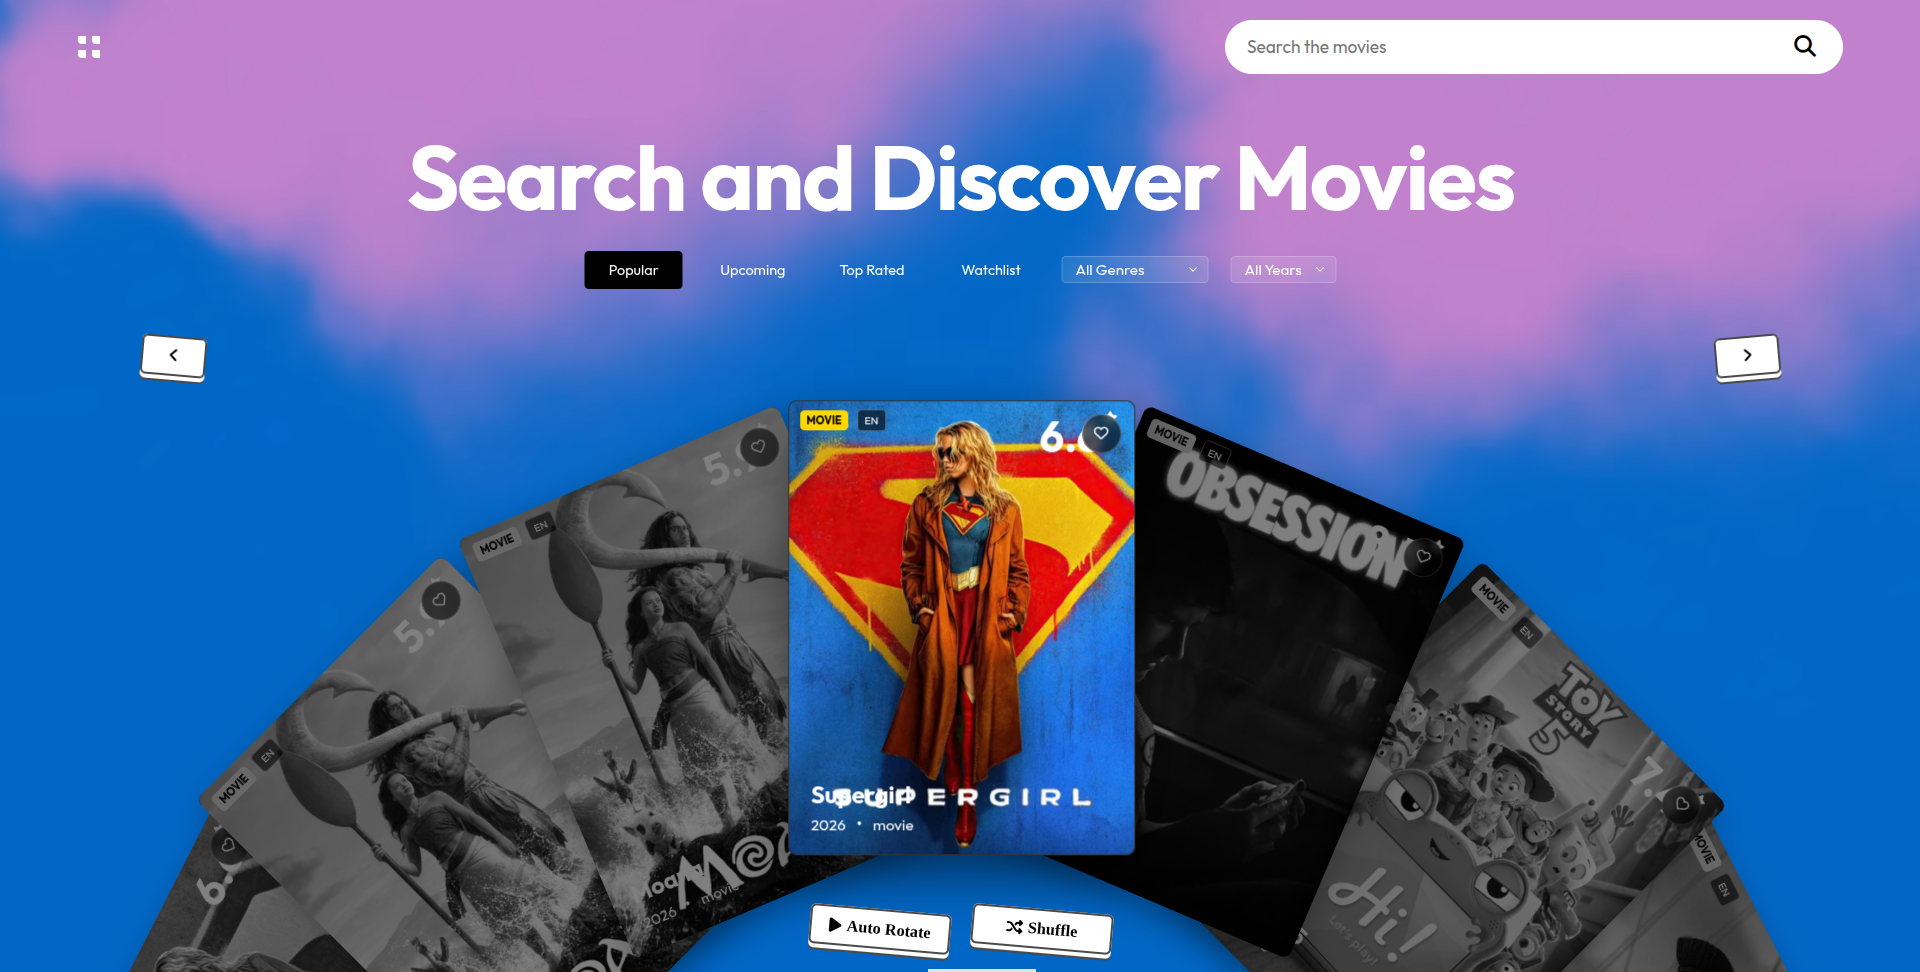
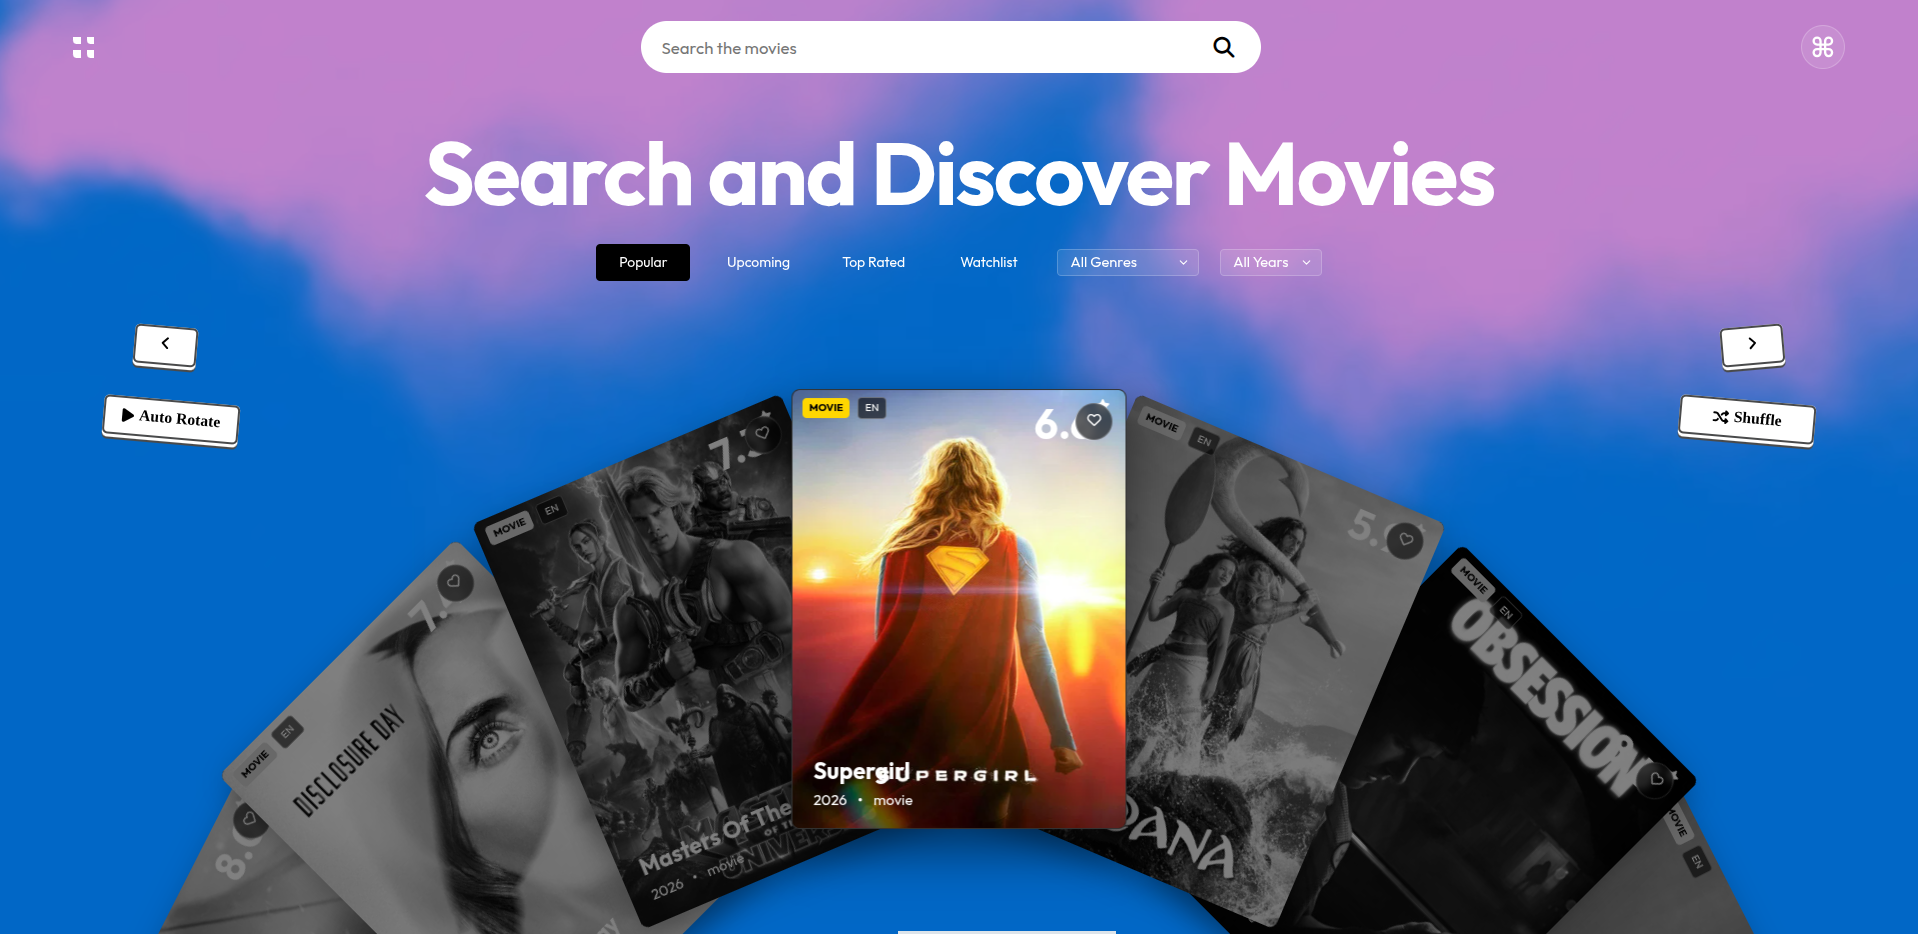
docs: update README with complete project documentation and feature details

diff --git a/index.html b/index.html
@@ -169,8 +169,7 @@ What are you doing here?! you sneaky developer...
 
       <!-- wheel container -->
       <div class="wheel-container">
-        <!-- NEW: shown when a filter (currently just Watchlist) returns
-             zero items — dims the card wheel via CSS and centers this. -->
+        <!-- NEW: shown when a filter -->
         <div id="emptyState" class="empty-state hidden">
           <i class="fa-regular fa-heart"></i>
           <p>Nothing in your watchlist yet.</p>
@@ -189,9 +188,7 @@ What are you doing here?! you sneaky developer...
         </button>
 
         <!-- UPDATED: Auto-Rotate now positioned under the left arrow,
-             Shuffle now positioned under the right arrow.
-             (Previously both lived together in a centered
-             ".extras-controls" bar below the whole wheel.) -->
+              -->
         <button id="autoRotateBtn">
           <strong>
             <i class="fa-solid fa-play"></i>

diff --git a/script.js b/script.js
@@ -5,14 +5,10 @@
   const MAX_STEPS = 1;
 
   // DOM refs
-
-  // near your other overlay DOM refs
   const cardLoader = document.getElementById("cardLoader");
-
   function showCardLoader() {
     if (cardLoader) cardLoader.classList.remove("hidden");
   }
-
   function hideCardLoader() {
     if (cardLoader) cardLoader.classList.add("hidden");
   }
@@ -1050,7 +1046,7 @@
     }
   });
 
-  // Card click handler (Opening trailer vs heart button click)
+  // Card click handler
   track.addEventListener("click", async (e) => {
     if (didDrag) {
       didDrag = false;

diff --git a/style.css b/style.css
@@ -201,7 +201,7 @@ header {
   background: rgba(255, 255, 255, 0.2);
 }
 
-/* BUG FIX: this was ".shortcuts-btn.active svg" */
+/*  ".shortcuts-btn.active svg" */
 .shortcuts-btn.active {
   background: var(--txt-color);
   color: var(--bg-color);
@@ -800,11 +800,10 @@ header {
 }
 
 /* Auto‑Rotate & Shuffle buttons*/
-
 #autoRotateBtn,
 #shuffleBtn {
   position: absolute;
-  top: 250px; /* .move-left/.move-right sit at top:180px + their own height (~55px) + 15px gap */
+  top: 250px;
   width: 130px;
   padding: 0;
   border: none !important;

diff --git a/api/tmdb.js b/api/tmdb.js
@@ -52,7 +52,6 @@ export default async function handler(req, res) {
 
     // BUG FIX: TMDB itself can return non-200 (e.g. bad key, rate limit).
     // Previously that response was forwarded as a 200 with an error body,
-    // which the frontend's `!data.results` check happened to catch, but
     // it's clearer (and matches HTTP semantics) to forward the real status.
     res.status(response.ok ? 200 : response.status).json(data);
   } catch (err) {

diff --git a/README.md b/README.md
@@ -1,6 +1,3 @@
-# Moviio Cinema
-
-> A cinematic 3D carousel movie explorer powered by TMDB. Discover films, watch trailers, and manage your watchlist with smooth motion!
 
 <p align="center">
   <a href="https://moviio.vercel.app/">
@@ -9,6 +6,8 @@
 </p>
 
 <h1 align="center">Moviio Cinema</h1>
+
+> A cinematic 3D carousel movie explorer powered by TMDB. Discover films, watch trailers, and manage your watchlist with smooth motion!
 
 <p align="center">
   <a href="https://moviio.vercel.app/"> Live Demo</a> •
@@ -27,54 +26,42 @@ Instead of displaying movies in a traditional grid, the application introduces a
 
 Powered by **TMDB**, the app fetches real-time movie information, official trailers, ratings, genres, and detailed metadata while maintaining buttery-smooth animations and GPU-accelerated performance.
 
-## Why this project stands out
+## Why This Project Stands Out
 
-- 🎬 Custom-built **3D Wheel Engine**
-  - No third-party carousel libraries
-  - Pure CSS 3D transforms
-  - CSS custom properties (`--slot`)
-  - Vanilla JavaScript animations
+### Custom 3D Wheel Engine
+Built from scratch without relying on carousel libraries.
 
-- ▶ Cinema Trailer Experience
-  - Fullscreen trailer overlay
-  - YouTube player integration
-  - Play/Pause controls
-  - Fullscreen support
-  - Share functionality
+- Pure CSS 3D transforms
+- CSS custom properties (`--slot`)
+- Vanilla JavaScript animations
+- Fully custom wheel implementation
 
-- ❤ Smart Watchlist
-  - Persistent LocalStorage
-  - URL Deep Linking
-  - Auto-Rotate mode
+### Cinema Trailer Experience
+A dedicated trailer viewing experience with built-in controls.
 
-  ---
+- Fullscreen trailer overlay
+- YouTube player integration
+- Play, pause, and fullscreen controls
+- Share functionality
+- Loading overlay while trailer data is being fetched
 
-# Built With
+### Smart Watchlist
+A persistent watchlist designed for convenience.
 
-This project is built entirely using modern web technologies together with a serverless API proxy.
+- LocalStorage persistence
+- URL deep linking
+- Auto-rotate mode
+- Empty-state messaging for new watchlists
 
-## Technologies
+### Built-in Help
+Quick access to keyboard shortcuts directly from the interface.
 
-| Technology | Purpose |
-|------------|---------|
-| HTML5 | Semantic markup and PWA support |
-| CSS3 | Layouts, animations, 3D transforms, responsive UI |
-| Vanilla JavaScript (ES6+) | State management, Fetch API, DOM manipulation |
-| TMDB API | Movies, trailers, posters and metadata |
-| YouTube IFrame API | Trailer playback |
-| Vercel | Deployment and serverless functions |
-
-### Tech Stack Badges
-
-![HTML5](https://img.shields.io/badge/HTML5-E34F26?style=for-the-badge&logo=html5&logoColor=white)
-![CSS3](https://img.shields.io/badge/CSS3-1572B6?style=for-the-badge&logo=css3&logoColor=white)
-![JavaScript](https://img.shields.io/badge/JavaScript-F7DF1E?style=for-the-badge&logo=javascript&logoColor=black)
-![Vercel](https://img.shields.io/badge/Vercel-000000?style=for-the-badge&logo=vercel&logoColor=white)
-![TMDB](https://img.shields.io/badge/TMDB-01B4E4?style=for-the-badge&logo=themoviedatabase&logoColor=white)
+- One-click keyboard shortcuts menu
 
 ---
 
-# Architecture
+
+# Architecture & Folder Structure
 
 The application follows a modular architecture.
 
@@ -106,39 +93,43 @@ moviio-cinema/
 | index.html | Main application |
 | style.css | Global styling |
 | script.js | Carousel logic, state management and UI |
-| api/tmdb.js | Serverless API proxy |
+| api/tmdb.js | Serverless API proxy (validates TMDB_KEY, forwards TMDB's real status codes) |
+| vercel.json | Optional Vercel config (function timeout, etc.) |
 | manifest.json | Progressive Web App manifest |
-| sw.js | Service Worker |
+| sw.js | Service Worker (versioned cache, auto-cleans old caches, skips `/api/` routes) |
 | assets | Images and media |
 
 ---
 
-# Features
+# Moviio Features
 
 ## Complete Feature List
 
 | # | Feature | Description |
 |---|---------|-------------|
-| 01 |  7-Card 3D Wheel | Custom-built carousel with 3D perspective, layered stacking, and smooth transitions. |
-| 02 |  Drag & Swipe Navigation | Navigate the carousel using mouse drag or touchscreen gestures. |
-| 03 |  Auto-Rotate Mode | Automatically rotates the wheel every 4 seconds and pauses on hover. |
-| 04 |  TMDB Integration | Fetches Popular, Upcoming, and Top Rated movies in real time. |
-| 05 |  Instant Search & Filters | Debounced search with Genre and Year filters powered by TMDB Discover API. |
-| 06 |  Watchlist | Save favorite movies using LocalStorage for persistent access. |
-| 07 |  Cinema Trailer Overlay | Watch official YouTube trailers in a fullscreen cinematic overlay. |
-| 08 |  Overlay Controls | Built-in Play/Pause, Fullscreen, and Share controls. |
-| 09 |  Dynamic Movie Details | Displays runtime, genres, director, and top cast automatically. |
-| 10 |  Shuffle Button | Discover hidden gems by loading a random page of movies. |
-| 11 |  Parallax Tilt Effect | Interactive 3D tilt effect on the active movie card. |
-| 12 |  URL Deep Linking | Share movies using direct URLs such as `/?movie_id=980431`. |
-| 13 |  Progressive Web App | Installable on desktop and mobile with offline caching support. |
-| 14 |  Keyboard Shortcuts | Navigate using Arrow Keys, Enter, Space, and Escape. |
+| 01 | 7-Card 3D Wheel | Custom-built carousel with 3D perspective, layered stacking, and smooth transitions. |
+| 02 | Drag & Swipe Navigation | Navigate the carousel using mouse drag or touchscreen gestures. |
+| 03 | Auto-Rotate Mode | Automatically rotates the wheel every 800ms and pauses on hover. The button sits directly under the left arrow. |
+| 04 | TMDB Integration | Fetches Popular, Upcoming, and Top Rated movies in real time. |
+| 05 | Instant Search & Filters | Debounced search with Genre and Year filters powered by TMDB Discover API. |
+| 06 | Watchlist | Save favorite movies using LocalStorage for persistent access. Shows a dimmed carousel + "Nothing in your watchlist yet" message when empty. |
+| 07 | Cinema Trailer Overlay | Watch official YouTube trailers in a fullscreen cinematic overlay. |
+| 08 | Overlay Controls | Built-in Play/Pause, Fullscreen, and Share controls. |
+| 09 | Dynamic Movie Details | Displays runtime, genres, director, and top cast automatically. |
+| 10 | Shuffle Button | Discover hidden gems by loading a random page of movies. Sits directly under the right arrow. |
+| 11 | Parallax Tilt Effect | Interactive 3D tilt effect on the active movie card. |
+| 12 | URL Deep Linking | Share movies using direct URLs such as `/?movie_id=980431`. |
+| 13 | Progressive Web App | Installable on desktop and mobile with offline caching support (versioned service worker cache). |
+| 14 | Keyboard Shortcuts | Navigate using Arrow Keys, Enter, Space, and Escape. |
+| 15 | Shortcuts Dropdown | A dedicated button next to the search bar toggles a reference card listing every keyboard shortcut. |
+| 16 | Trailer Loading Feedback | Clicking a card immediately dims the screen and shows a spinner while trailer/details data is fetched, so the click never feels unresponsive. |
+| 17 | Empty-State Handling | Any filter that returns zero results (currently the Watchlist filter) dims the carousel and shows a centered message instead of leaving blank cards on screen. |
 
 ---
 
 #  Usage
 
-Once the application is running, you'll be welcomed by an immersive **3D movie carousel** designed to make discovering films feel like browsing a virtual cinema. Navigate effortlessly, watch trailers, and build your personal watchlist—all from a single interface.
+Once the application is running, you'll be welcomed by an immersive **3D movie carousel** designed to make discovering films feel like browsing a virtual cinema. Navigate effortlessly, watch trailers, and build your personal watchlist-all from a single interface.
 
 ## Explore the Features
 
@@ -171,13 +162,14 @@ Your watchlist includes:
 - Persistent storage using **LocalStorage**
 - One-click add or remove
 - Dedicated **Watchlist** filter
+- A dimmed carousel with a friendly "Nothing in your watchlist yet" message if you haven't saved anything yet
 
 ---
 
 ###  Watch Official Trailers
 Select the **center (active) movie card** to launch the cinematic trailer overlay.
 
-The application automatically loads the official YouTube trailer whenever one is available.
+The application automatically loads the official YouTube trailer whenever one is available. While the trailer and movie details are being fetched, the screen dims and a spinner shows so you always know something is happening.
 
 ---
 
@@ -191,9 +183,25 @@ The fullscreen player includes convenient playback controls:
 ---
 
 ###  Auto Rotate
-Enable **Auto Rotate** to let the carousel automatically cycle through movies.
+Enable **Auto Rotate** (button under the left arrow) to let the carousel automatically cycle through movies.
 
 The animation pauses while your cursor is over the carousel and resumes once you move away.
+
+---
+
+###  Shuffle
+Click **Shuffle** (button under the right arrow) to jump to a random page of popular movies - a quick way to discover something you wouldn't normally scroll to.
+
+---
+
+###  Keyboard Shortcuts
+Click the keyboard icon next to the search bar to open a quick-reference dropdown of every shortcut:
+
+| Key | Action |
+|-----|--------|
+| `←` `→` | Navigate cards |
+| `Enter` / `Space` | Open the active card's trailer |
+| `Esc` | Close the trailer overlay |
 
 ---
 
@@ -218,6 +226,31 @@ Explore the interactive 3D carousel, search thousands of movies, watch official 
 
 ---
 
+# Built With
+
+This project is built entirely using modern web technologies together with a serverless API proxy.
+
+## Technologies
+
+| Technology | Purpose |
+|------------|---------|
+| HTML5 | Semantic markup and PWA support |
+| CSS3 | Layouts, animations, 3D transforms, responsive UI |
+| Vanilla JavaScript (ES6+) | State management, Fetch API, DOM manipulation |
+| TMDB API | Movies, trailers, posters and metadata |
+| YouTube IFrame API | Trailer playback |
+| Vercel | Deployment and serverless functions |
+
+### Tech Stack Badges
+
+![HTML5](https://img.shields.io/badge/HTML5-E34F26?style=for-the-badge&logo=html5&logoColor=white)
+![CSS3](https://img.shields.io/badge/CSS3-1572B6?style=for-the-badge&logo=css3&logoColor=white)
+![JavaScript](https://img.shields.io/badge/JavaScript-F7DF1E?style=for-the-badge&logo=javascript&logoColor=black)
+![Vercel](https://img.shields.io/badge/Vercel-000000?style=for-the-badge&logo=vercel&logoColor=white)
+![TMDB](https://img.shields.io/badge/TMDB-01B4E4?style=for-the-badge&logo=themoviedatabase&logoColor=white)
+
+---
+
 # Getting Started
 
 Follow these steps to run the project locally.
@@ -235,6 +268,8 @@ Request an API key from:
 https://www.themoviedb.org/
 
 ---
+
+
 
 # Installation
 
@@ -256,7 +291,7 @@ cd moviio-cinema
 
 ## 3. Configure your TMDB API Key
 
-This project uses a **serverless Vercel API proxy**.
+This project uses a **serverless Vercel API proxy** located at `api/tmdb.js`.
 
 Create a `.env` file in the project root.
 
@@ -271,6 +306,8 @@ your_tmdb_api_key
 ```
 
 with your actual **TMDB API v3 Key**.
+
+> `api/tmdb.js` will return a clean `500` error if `TMDB_KEY` is missing, and forwards TMDB's real HTTP status codes instead of always returning 200 - check your Network tab if movies aren't loading.
 
 ---
 
@@ -288,7 +325,7 @@ TMDB_KEY
 ```
 
 5. Paste your TMDB API Key.
-6. Redeploy the project.
+6. **Redeploy the project** - adding or changing an environment variable does *not* retroactively apply to an already-running deployment. If you see a "Needs Attention" badge next to the variable in the dashboard, that's exactly why: redeploy to pick it up.
 
 ---
 
@@ -314,14 +351,25 @@ will prevent API requests from working.
 
 ---
 
-## Option B - Live Server (Recommended)
+## Option B - Live Server (Recommended for markup/style changes only)
 
 1. Open the project in Visual Studio Code.
 2. Install the **Live Server** extension.
 3. Right-click `index.html`.
 4. Select **Open with Live Server**.
 
-This starts a local HTTP server, allowing the API proxy to function correctly.
+> ⚠ Live Server is a static file server only - it does **not** run `api/tmdb.js`. Any request to `/api/tmdb` will 404, and movies won't load. Live Server is fine for CSS/HTML tweaks, but for anything touching the API use Option C below.
+
+---
+
+## Option C - Vercel CLI (Recommended for full functionality)
+
+```bash
+npm install -g vercel
+vercel dev
+```
+
+This runs the serverless function locally exactly as it runs in production, so `/api/tmdb` actually works.
 
 ---
 
@@ -345,6 +393,7 @@ Ensure `.env` is included in your `.gitignore`.
 - JavaScript enabled
 - Internet connection (for TMDB and YouTube APIs)
 - Valid TMDB API Key
+- For local API testing: Vercel CLI (`vercel dev`) - plain Live Server will not run `api/tmdb.js`
 
 ---
 
